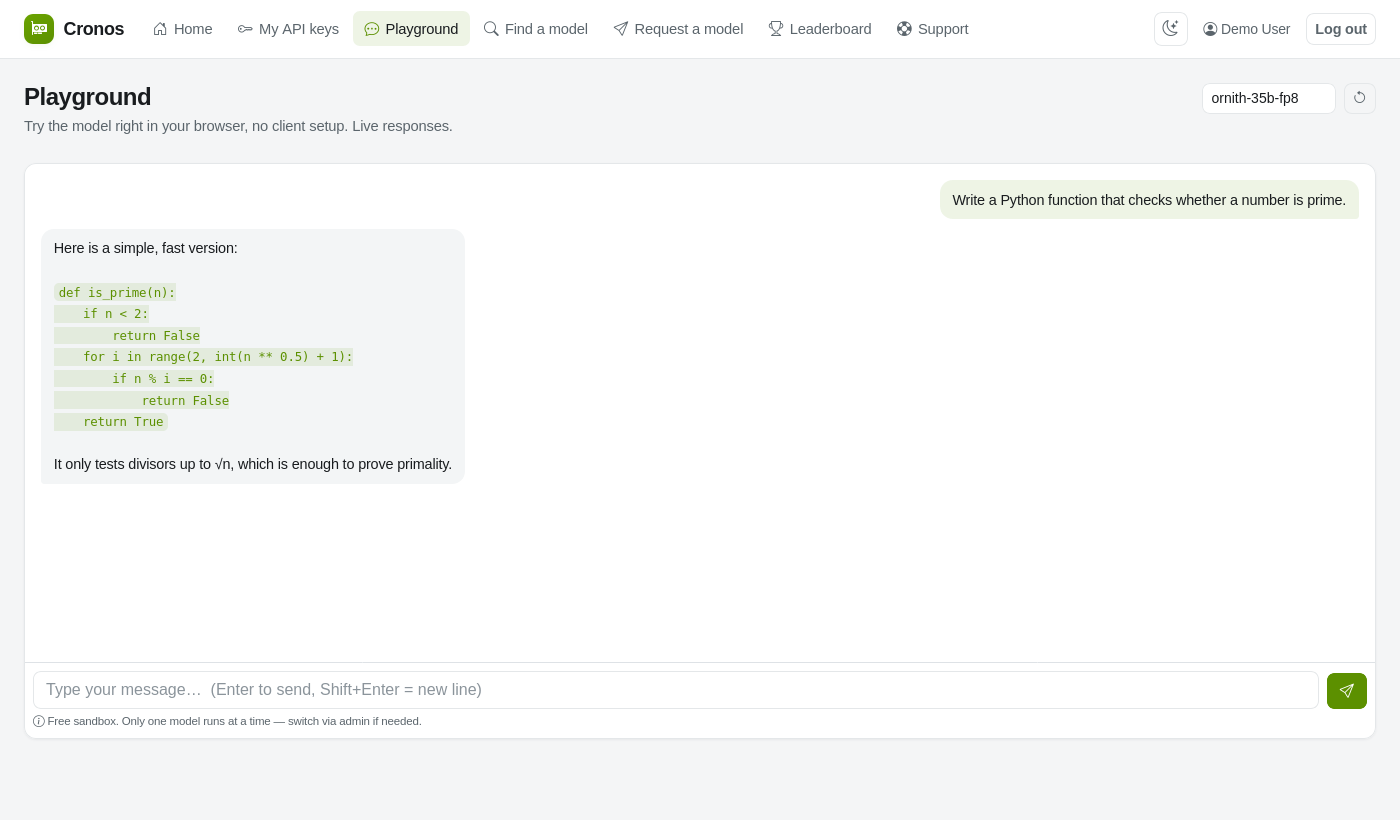
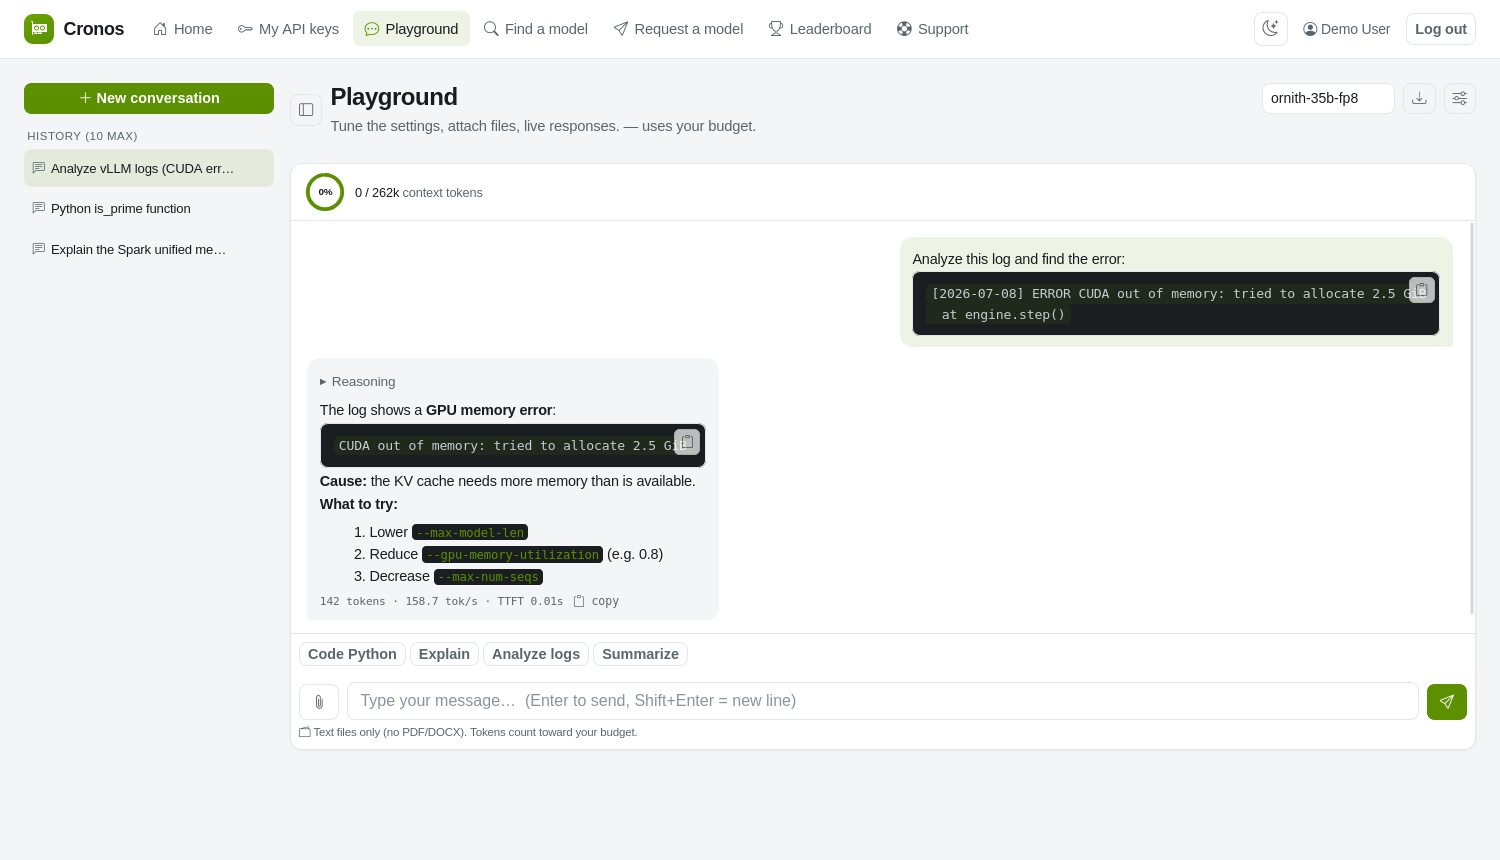
docs: refresh English Playground screenshot; translate preset/stat labels

diff --git a/dgx-portal/translations.py b/dgx-portal/translations.py
@@ -106,6 +106,28 @@ FR_TO_EN = {
         "Free sandbox. Only one model runs at a time — switch via admin if needed.",
     "Aucun modèle actif.": "No active model.",
     "Erreur réseau.": "Network error.",
+    "Règle les paramètres, joins des fichiers, réponses en direct.":
+        "Tune the settings, attach files, live responses.",
+    "— consomme ton budget.": "— uses your budget.",
+    "Nouvelle conversation": "New conversation",
+    "Historique": "History",
+    "Aucune conversation.": "No conversation.",
+    "Afficher le raisonnement": "Show reasoning",
+    "Raisonnement": "Reasoning",
+    "Analyser des logs": "Analyze logs",
+    "Fichiers texte uniquement (pas de PDF/DOCX). Les tokens comptent sur ton budget.":
+        "Text files only (no PDF/DOCX). Tokens count toward your budget.",
+    "Éditer": "Edit",
+    "Régénérer": "Regenerate",
+    "Expliquer": "Explain",
+    "Résumer": "Summarize",
+    "Traduire": "Translate",
+    "copier": "copy",
+    "copié": "copied",
+    "Rien à exporter.": "Nothing to export.",
+    "tokens de contexte": "context tokens",
+    "contexte presque plein": "context almost full",
+    "⚠ contexte plein — nouvelle conversation": "⚠ context full — new conversation",
 
     # ── Support (support.html + app.py) ───────────────────────────────────
     "Un assistant IA connecté à la plateforme : il voit tes clés (masquées), ton budget et l'état du serveur pour t'aider en cas de pépin.":